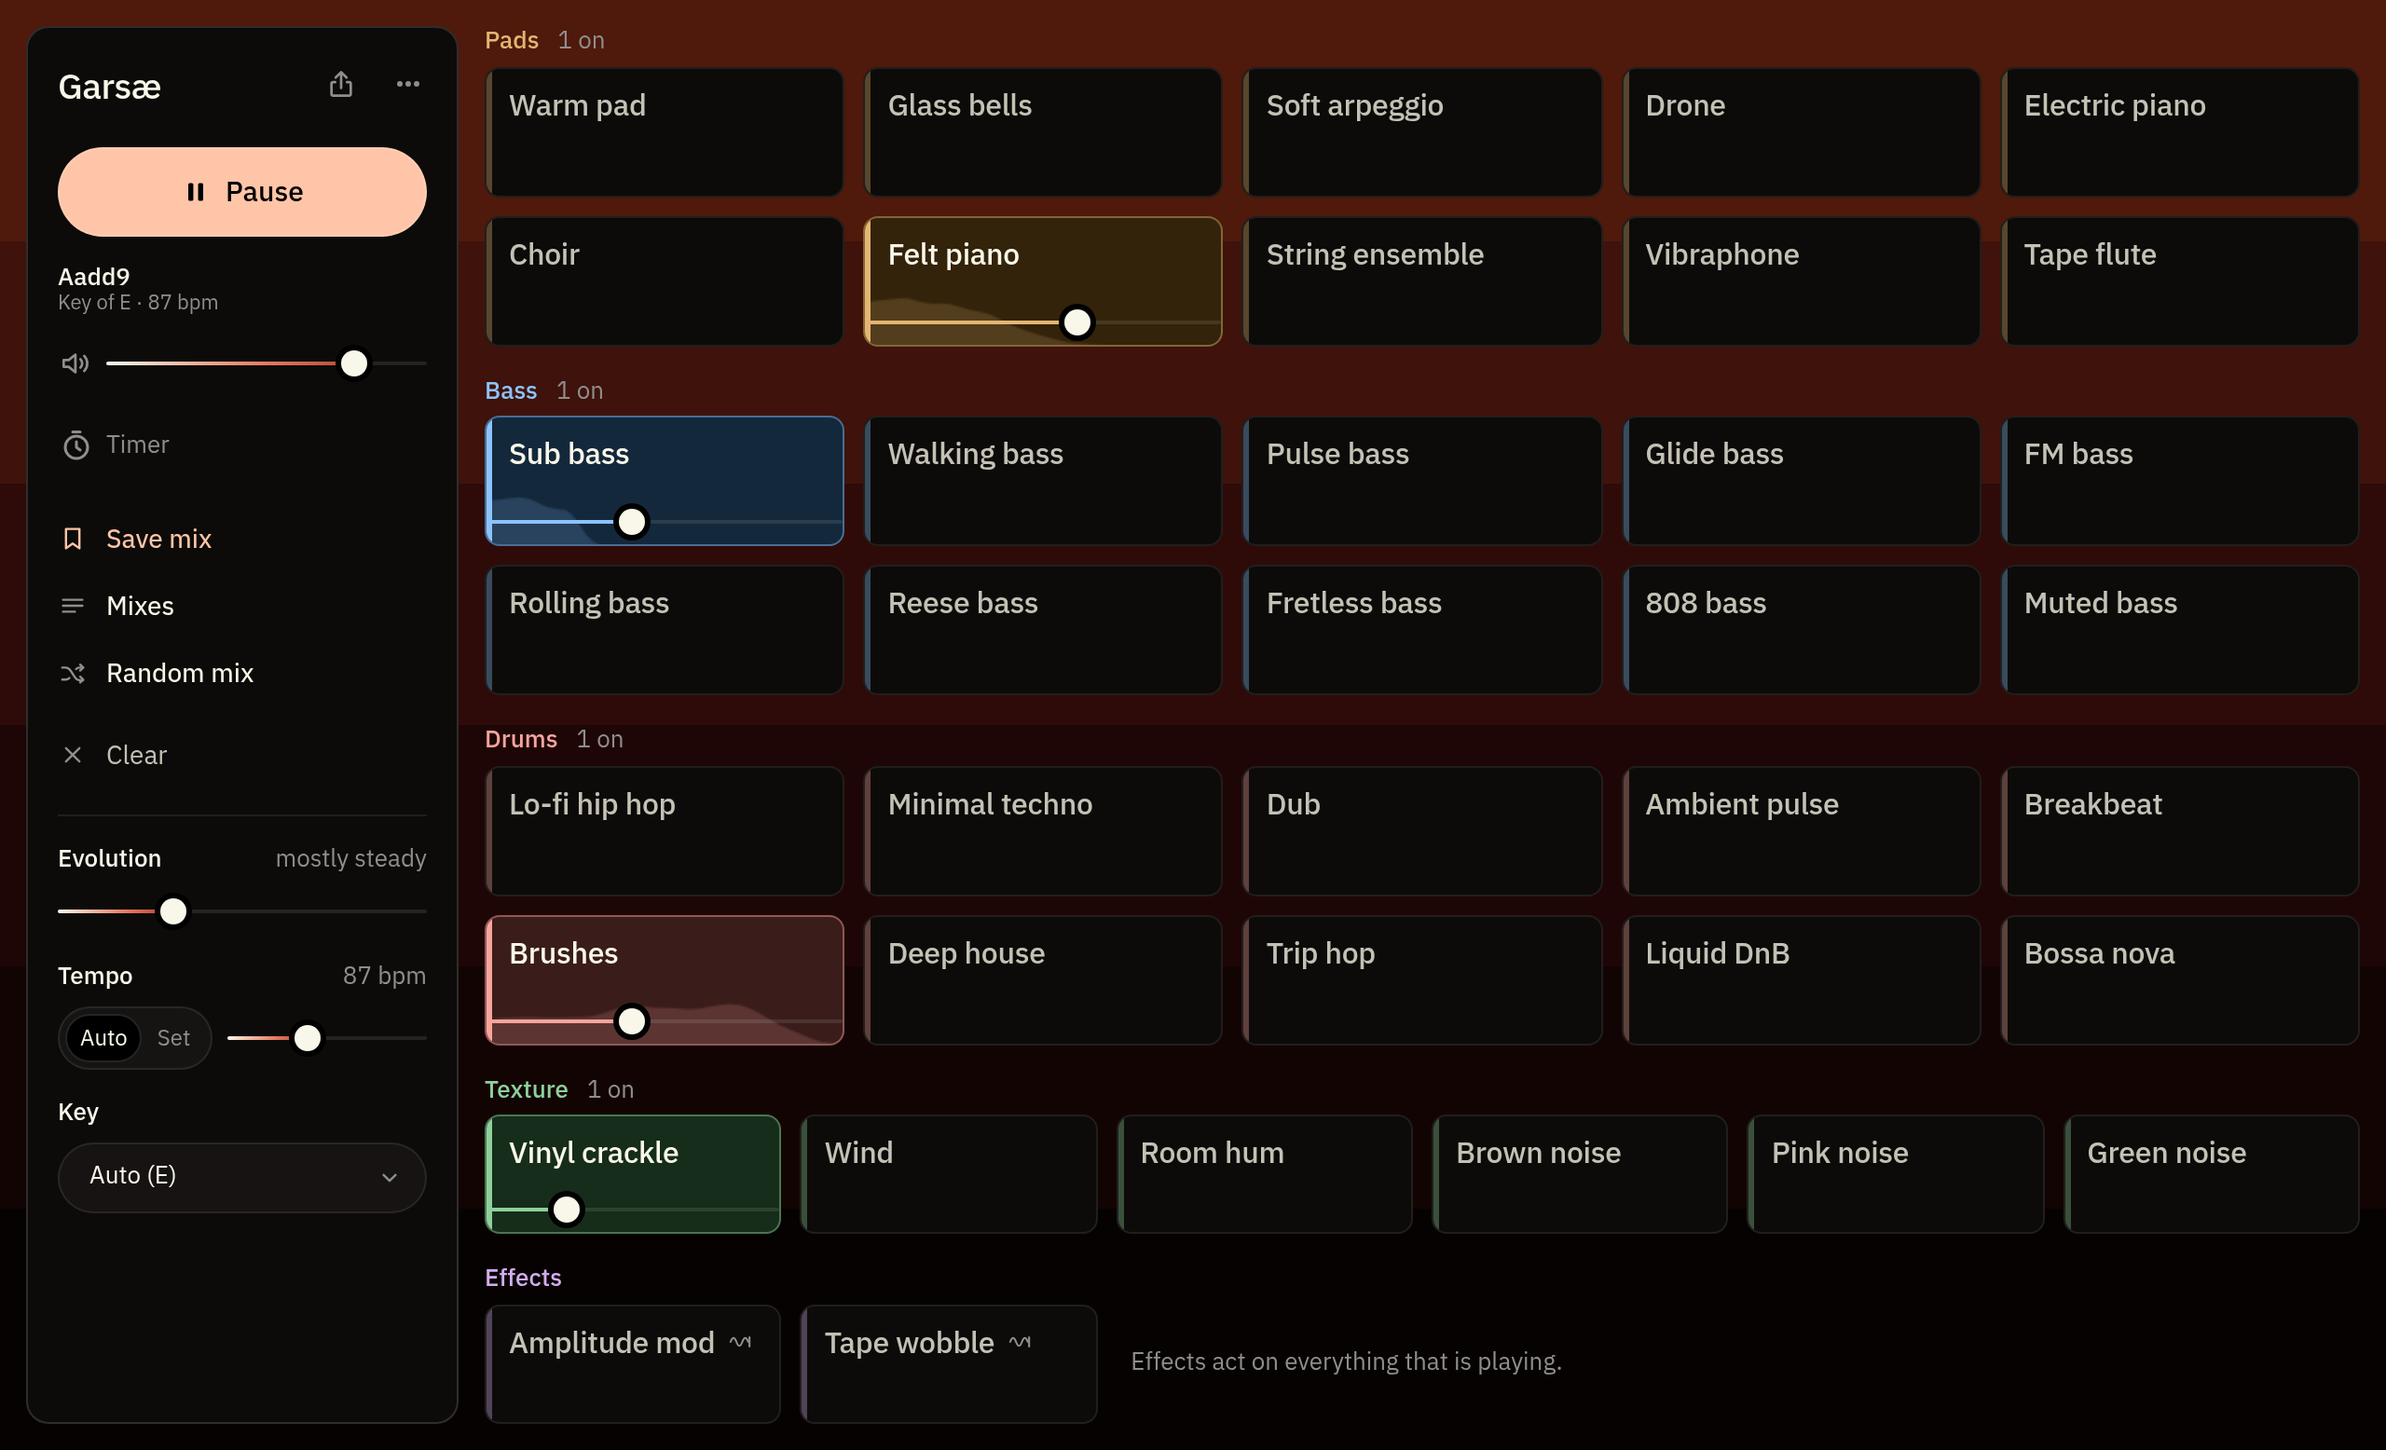
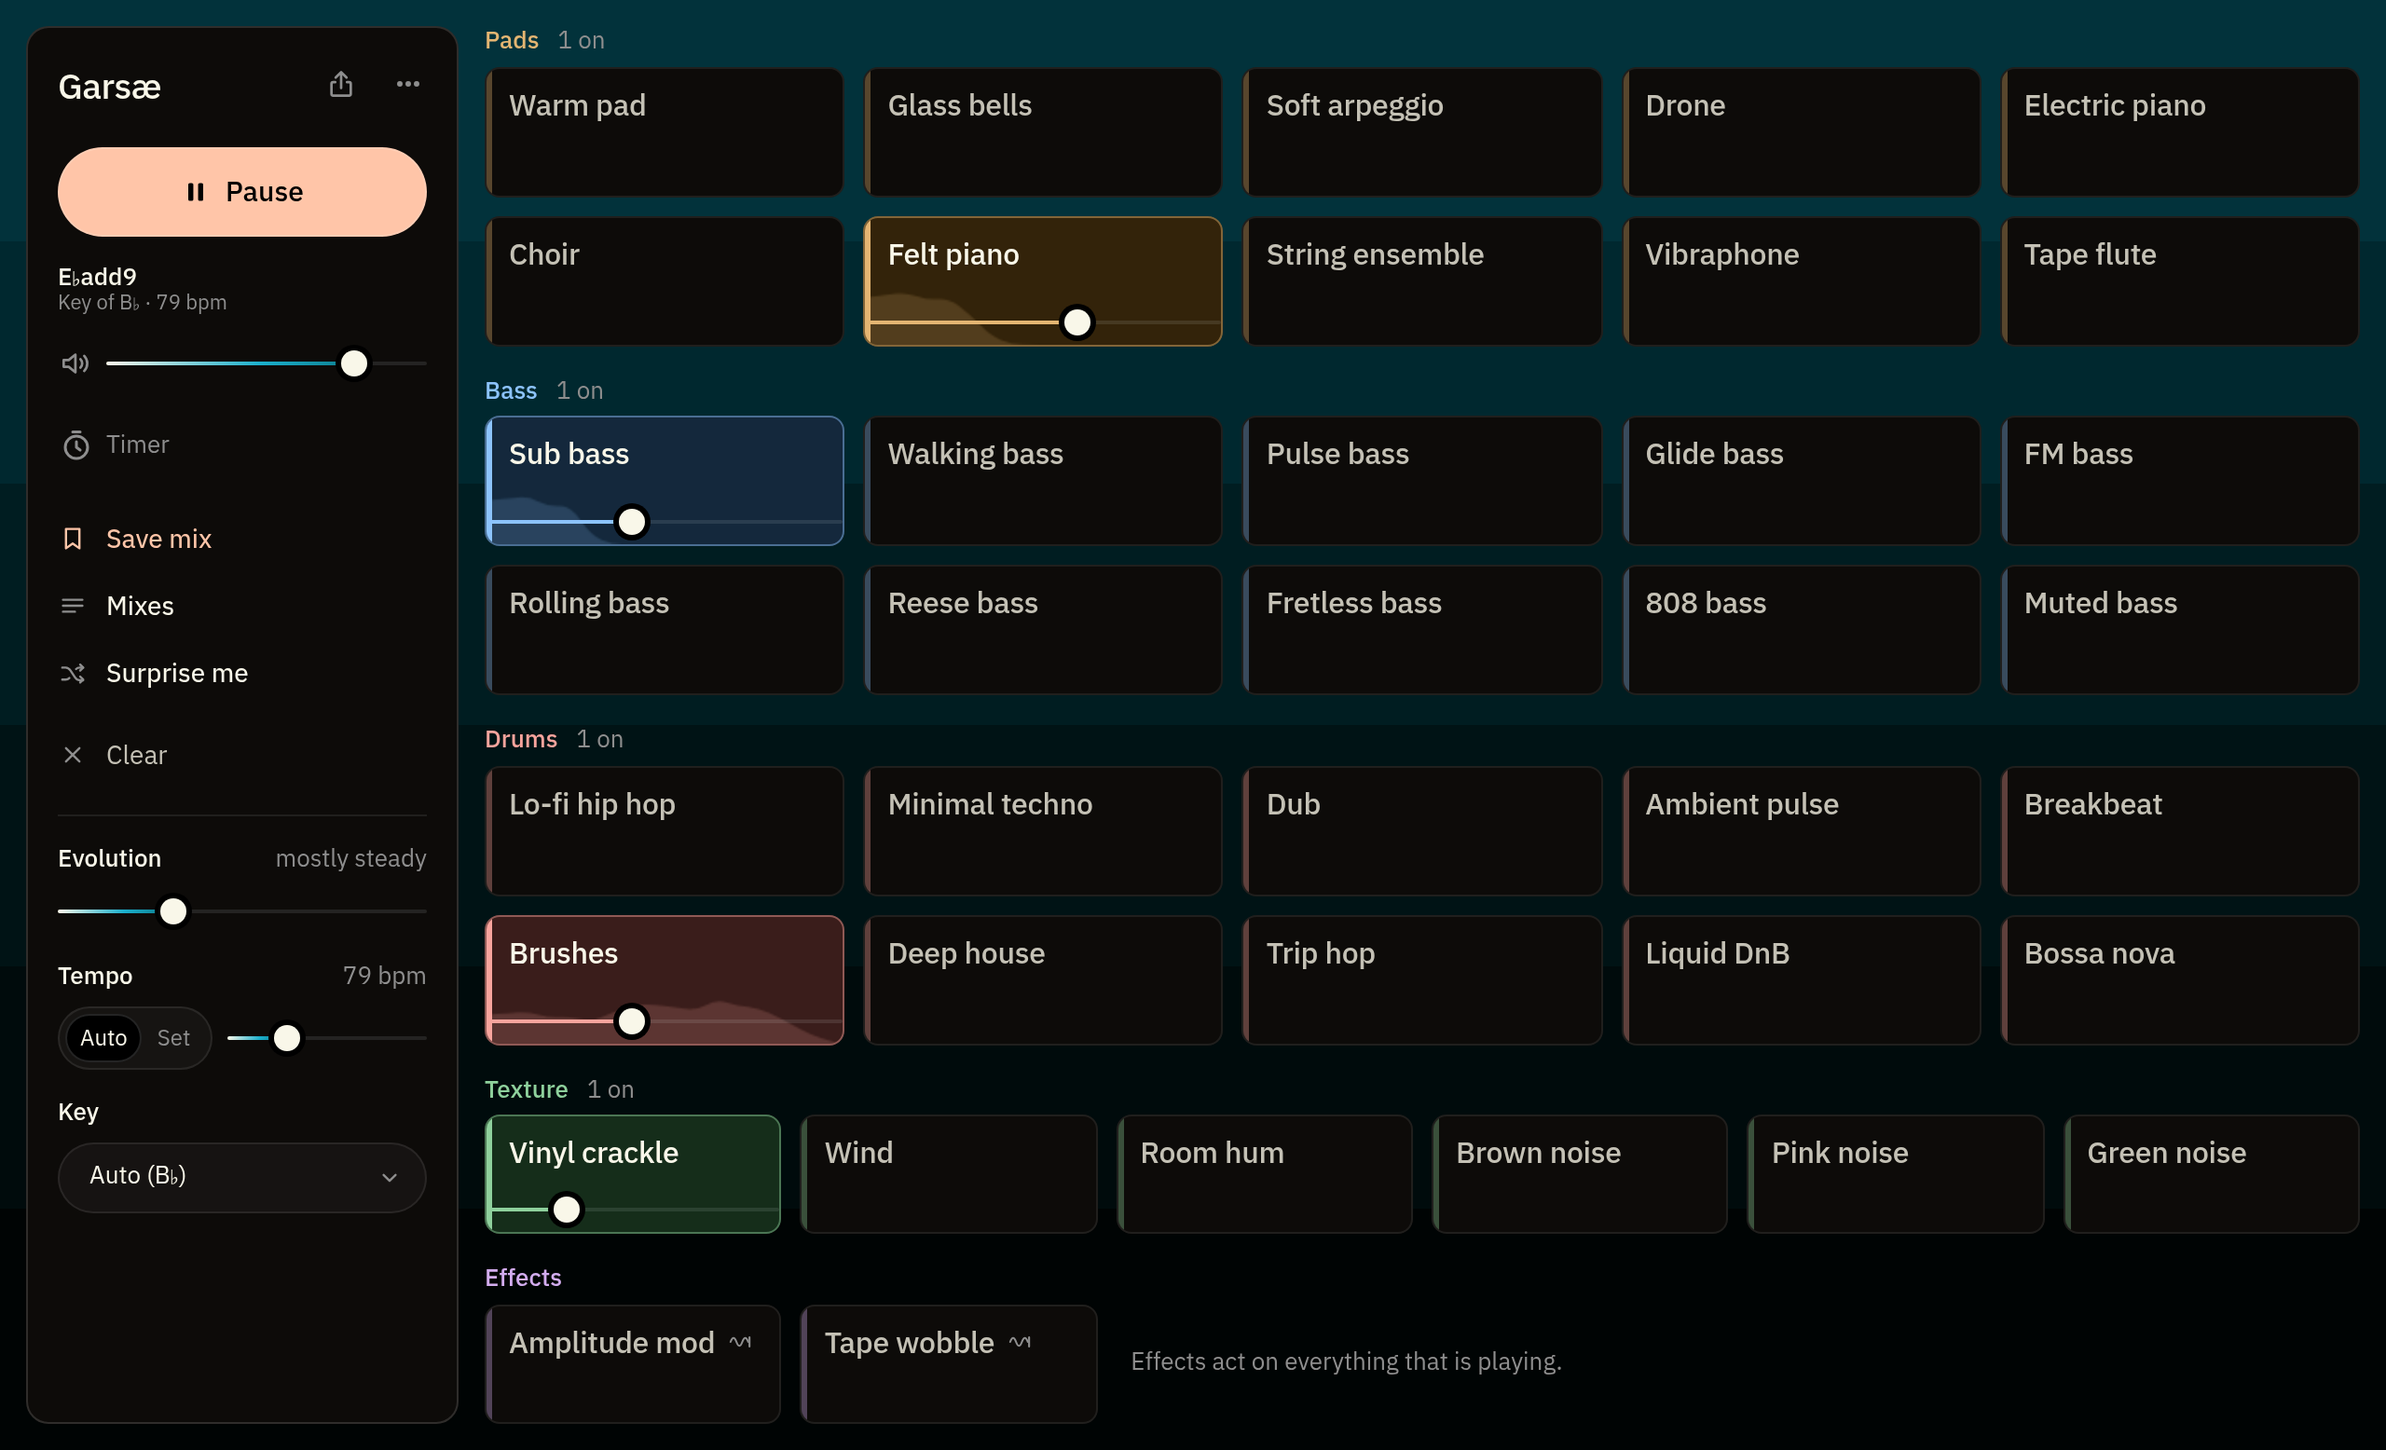
Rename Random mix back to Surprise me

Changed region(s): [[0.0, 0.0, 1.0, 0.6787], [0.0938, 0.7095, 0.1562, 0.7404], [0.0625, 0.4627, 0.0938, 0.4936]]

diff --git a/src/i18n/lt.ts b/src/i18n/lt.ts
@@ -94,7 +94,7 @@ export const lt: Strings = {
   clear: 'Išvalyti',
   starters: 'Paruošti',
   starterMixes: 'Paruošti miksai',
-  surpriseMe: 'Atsitiktinis miksas',
+  surpriseMe: 'Nustebink mane',
   countOn: (count) => `Įjungta: ${count}`,
 
   effect: 'Efektas',
@@ -123,7 +123,7 @@ export const lt: Strings = {
   timerOff: 'Laikmatis išjungtas',
   fadingOutIn: (minutes) => `Nutils po ${minutes} min.`,
   pickSoundFirst: 'Pirma pasirinkite garsą',
-  surpriseMix: 'Atsitiktinis miksas',
+  surpriseMix: 'Netikėtas miksas',
   allTilesOff: 'Visi garsai išjungti',
   loaded: (name) => `Įkelta: „${name}“`,
   shareTitle: 'Garsæ miksas',

diff --git a/src/i18n/en.ts b/src/i18n/en.ts
@@ -49,7 +49,7 @@ export const en = {
   clear: 'Clear',
   starters: 'Starters',
   starterMixes: 'Starter mixes',
-  surpriseMe: 'Random mix',
+  surpriseMe: 'Surprise me',
   countOn: (count: number) => `${count} on`,
 
   effect: 'Effect',
@@ -78,7 +78,7 @@ export const en = {
   timerOff: 'Timer off',
   fadingOutIn: (minutes: number) => `Fading out in ${minutes} min`,
   pickSoundFirst: 'Pick a sound first',
-  surpriseMix: 'Random mix',
+  surpriseMix: 'Surprise mix',
   allTilesOff: 'All tiles off',
   loaded: (name: string) => `Loaded “${name}”`,
   shareTitle: 'Garsæ mix',

diff --git a/DESIGN.md b/DESIGN.md
@@ -52,7 +52,7 @@ Each instrument is a tile. Pads, bass and arps read from a shared hidden chord e
 
 ## Tempo
 - Manual BPM range: **60-130**.
-- If BPM/key are not set: **random on start within the calm range 60-90 BPM** and a random key. "Random mix" re-rolls them in the same range.
+- If BPM/key are not set: **random on start within the calm range 60-90 BPM** and a random key. "Surprise me" re-rolls them in the same range.
 - All instruments and drum genres follow the single global BPM.
 
 ## Drums
@@ -69,7 +69,7 @@ Each instrument is a tile. Pads, bass and arps read from a shared hidden chord e
 
 ## Session features (v1)
 - **Save/load mixes** locally (browser storage, no account).
-- **"Random mix"**: random instruments, drum genres, volumes, BPM and key, with guardrails for a balanced, calm result.
+- **"Surprise me"**: random instruments, drum genres, volumes, BPM and key, with guardrails for a balanced, calm result.
 - **Share by link**: mix state is encoded in the URL, with no backend.
 - Saved mixes and share links store **settings only, never a random seed**, so the music is different on every play. Stored settings:
   - instrument tiles on/off and their volumes
@@ -79,7 +79,7 @@ Each instrument is a tile. Pads, bass and arps read from a shared hidden chord e
   - BPM and key, **only if the user set them**. If they were left random, they stay random when the link is opened.
 - **Starter mixes**: five curated presets, offered on the first visit and in the Mixes sheet.
 - **Session timer**: 25 / 50 / 90 min. It fades out over the last 30 s, then stops. Pausing cancels it.
-- **Undo** instead of confirmations: Random mix, loading a mix or link, Clear, and deleting or overwriting a saved mix all show an Undo toast.
+- **Undo** instead of confirmations: Surprise me, loading a mix or link, Clear, and deleting or overwriting a saved mix all show an Undo toast.
 
 ## Language
 - English and Lithuanian. English is the source (`src/i18n/en.ts`, with tile and starter names read from `src/tiles.ts` and `src/state/presets.ts`); `src/i18n/lt.ts` must match its shape, so a missing translation doesn't compile.
@@ -95,8 +95,8 @@ Each instrument is a tile. Pads, bass and arps read from a shared hidden chord e
 ## UI
 The app is **one screen**: the page never scrolls, and adding sounds shouldn't need layout work. From 900px wide, a **sidebar** holds everything you control and the rest of the window is the instrument. No hero: the page opens straight onto the instrument. A first visit opens once on a **welcome** panel instead, and share links skip it. It is not a hero: a plain panel with the wordmark, the language switch, one sentence on what Garsæ is, and the five starters as a list, each row naming the instruments it plays (with their category dots), then a row to start from an empty mix. No display type, no staggered entrance; it just fades in. Hovering or focusing a starter glides the background to that starter's colours, and picking one plays it in that key while the welcome fades and the instrument comes up underneath.
 - The **sidebar**, top to bottom: the wordmark with Share and About beside it, a large labelled **Play / Pause**, chord with key and tempo, master volume (after the limiter), the session timer, the mix actions, then the sound settings. Each action lives in one place. One set of markup serves every width: under 900px `.sidebar` and its contents dissolve into the page, and the same **transport** becomes a glass bar, along the top on tablets and at the bottom on phones, in thumb reach, with Play an icon-only circle there.
-- Picking a whole mix (a starter, Random mix or a saved mix) while stopped also starts playback. Play with nothing on says "Pick a sound first" instead of playing silence.
-- The **mix actions** are **Save mix**, Mixes and Random mix, plus Clear. In the sidebar they are a plain list of icon-and-label rows (Save mix in the accent, Clear dimmed when there is nothing on), not stacked pills; on narrower screens they are a row of flat pills. Save mix saves in one click under the suggested name, with Undo; it shows Saved when the current mix is already kept, and renaming stays in the Mixes sheet. **Starters** appear above the tiles when nothing is on, and are always in the Mixes sheet. Phones show the wordmark above the actions, because their transport is at the bottom.
+- Picking a whole mix (a starter, Surprise me or a saved mix) while stopped also starts playback. Play with nothing on says "Pick a sound first" instead of playing silence.
+- The **mix actions** are **Save mix**, Mixes and Surprise me, plus Clear. In the sidebar they are a plain list of icon-and-label rows (Save mix in the accent, Clear dimmed when there is nothing on), not stacked pills; on narrower screens they are a row of flat pills. Save mix saves in one click under the suggested name, with Undo; it shows Saved when the current mix is already kept, and renaming stays in the Mixes sheet. **Starters** appear above the tiles when nothing is on, and are always in the Mixes sheet. Phones show the wordmark above the actions, because their transport is at the bottom.
 - Tiles are **grouped by category** into rows sharing the height, under a bracketed micro label (`[ PADS ]`) with an "N on" count: tile height tops out around 100px, with clear space between them (14px across, more between rows on tall windows). Tap to toggle, slider for level. A new category is one more row, and a seventh tile wraps. If rows ever outgrow the window they scroll inside `.stage`.
 - The **sound settings** (Evolution, tempo and key) sit in the sidebar with no surface of their own, since it is already glass.
 - Under 1280px wide six tiles no longer fit, so **tabs** show one category at a time, each with a count of what is on. Under 900px the sound settings are a tab too. Only CSS decides all this. Below 540px tall the tiles scroll with the rest of the page area, and the sidebar scrolls on its own, so browser zoom loses nothing.
@@ -186,5 +186,5 @@ Sources: [binaural meta-analysis](https://pubmed.ncbi.nlm.nih.gov/35842538/), [S
 - **Mutation timing:** what "every few bars" means exactly, and how the Evolution slider maps to mutation rate and size.
 - **Generators:** how each pad / bass / arp generator works in detail (note choice, rhythm, density).
 - **Drum genres:** what defines "Ambient pulse" musically.
-- **"Random mix" guardrails:** e.g. max number of active tiles, volume balance rules, whether to avoid stacking busy drum genres.
+- **"Surprise me" guardrails:** e.g. max number of active tiles, volume balance rules, whether to avoid stacking busy drum genres.
 - **Focus presets:** what Light vs Strong mean in modulation depth and rate.

diff --git a/README.md b/README.md
@@ -23,7 +23,7 @@ Endless, generative focus music in the browser. Toggle instrument tiles, mix the
 | | |
 | --- | --- |
 | **Tiles** | 38 instruments you switch on and mix, each with its own level |
-| **Random mix** | Builds a new mix that always has a harmonic bed under it |
+| **Surprise me** | Builds a new mix that always has a harmonic bed under it |
 | **Evolution** | One slider for how far the music drifts, from fixed to restless |
 | **Tempo and key** | Set them yourself; every tile follows |
 | **Mixes** | Save mixes on your device, or start from a starter mix |
@@ -81,7 +81,7 @@ src/
     synth.ts               shared sound design: ensemble chorus, analog pitch drift, saturation
     instruments/           pads, keys, bass, atmosphere and noise colours, effect tiles
     drums/                 synthesized drum voices, genre patterns and mutation rules
-  state/mix.ts             mix model, share-link encoding, saved mixes, Random mix
+  state/mix.ts             mix model, share-link encoding, saved mixes, Surprise me
   i18n/                    English and Lithuanian strings
   App.tsx, ui/             Preact UI and PWA helpers
 public/sw.js               service worker, only used after "Download for offline"
@@ -98,7 +98,7 @@ public/sw.js               service worker, only used after "Download for offline
 - **Brushes.** Played beat by beat like a trio drummer, not from a 16th grid. The swung skip note falls at the tempo's swing ratio (about 2.6:1 at 60 bpm, flattening to 2.1:1 at 130, as measured jazz ride players do). Each limb has its own feel: the ride pushes about 6 ms ahead, the snare hand lays back about 12 ms, plus a few ms of looseness and level variation on every hit. The ride plays "ding, DING-a" accented on 2 and 4, with an occasional extra skip or triplet. The left hand sweeps a circle through every beat, alternating direction. There are brush pats and the hi-hat foot on 2 and 4, a feathered kick on all four beats with an occasional bomb, sparse snare chatter on swung offbeats, and triplet fills at phrase ends.
 - **Breakbeat.** Tight, as electronic music uses breaks: near-quantized (2% swing, ±1 ms), a short punchy kick, a crisp snare, 16th hats with an open hat on the turnaround, then a fast bus compressor and saturation, left bright. The last beat of a 4-bar phrase may become a 32nd-note snare roll rising into the downbeat (more often with Evolution).
 - **Ambient pulse.** It is a soft heartbeat: a muffled low thump on beats 1 and 3, a breathy shaker on the eighths, and an occasional soft tom. It has no snare.
-- **Random mix guardrails.** Every random mix has a harmonic bed, picked evenly from warm pad, drone, choir, or a soft arpeggio, glass bells or electric piano over a bass, and at most 6 tiles. It picks at most one extra melodic layer, one bass, one drum genre, one atmosphere and one noise colour. Breakbeat and techno are rarer and quieter. Effect tiles are never picked, and Evolution stays between 0.15 and 0.5.
+- **Surprise me guardrails.** Every surprise mix has a harmonic bed, picked evenly from warm pad, drone, choir, or a soft arpeggio, glass bells or electric piano over a bass, and at most 6 tiles. It picks at most one extra melodic layer, one bass, one drum genre, one atmosphere and one noise colour. Breakbeat and techno are rarer and quieter. Effect tiles are never picked, and Evolution stays between 0.15 and 0.5.
 - **Focus presets.** These are not built yet, because the design puts them after the prototype. The engine already exposes amplitude modulation rate and depth through `setModulation`, and the AM tile uses it at 16 Hz.
 - **Generative textures.** Tape wobble adds gentle wow and flutter to the whole mix, and drones have their own tile. The Experimental category (binaural, isochronic, granular cloud) was removed.
 - **Sound design.** Plain oscillators sound like an old game, so every voice borrows a standard studio-synth recipe. The electric piano is DX7-style FM (algorithm 5: a body pair and a 14:1 tine pair that fades fast) with a suitcase tremolo, and the choir sings detuned saws with delayed vibrato and breath through vowel formants. The glide bass runs through two cascaded lowpasses (24 dB, Moog-like), and the FM bass is the DX7 electric-bass recipe: a sine with a 1:1 modulator whose index drops quickly after each note. Brushes are swept and slapped noise in two layers, the bristles' scratch and the snare head answering in the mids, with a slow random grain from the bristles catching. The jazz ride is a cluster of inharmonic sine partials (the high ones fading first) with a noise wash and a stick tick, and the hi-hat foot is a short closed "chk". The warm pad stacks three detuned, drifting saws per note through a filter that opens with the swell and a Juno-style ensemble chorus. Glass bells are additive struck bars (partials at 1, 2.76 and 5.40 times the fundamental, with a slowly beating twin and a mallet tick). The arpeggio is a felt-mallet marimba (partials at 1, 4 and 9.8 times the fundamental, low notes ringing longer, a soft wooden knock). The drone is built to sit still: soft flute-organ tones on the root, a just fifth and the octaves (so nothing beats), in the tenor register rather than the sub-bass, with no pitch drift or chorus. Only the upper voices move, each swelling on its own slow breath-paced cycle. The walking bass is an upright-style pluck with a pitch settle and finger thump, and the pulse bass is two detuned saws, gently saturated. The kick has a beater click and soft drive, the snare has two shell modes plus wires, and the hats use the TR-808's six square-wave metal cluster. All of it is plain Web Audio nodes, with no AudioWorklet or samples.
